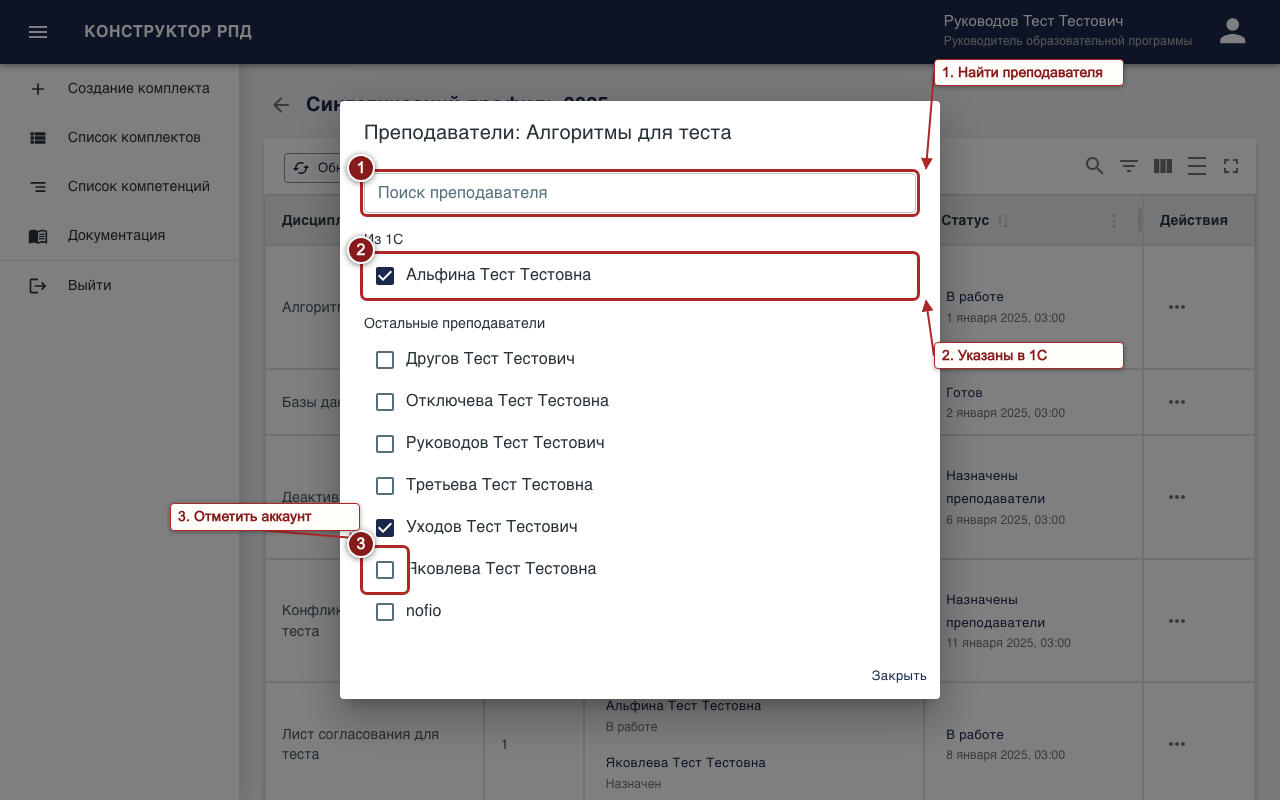
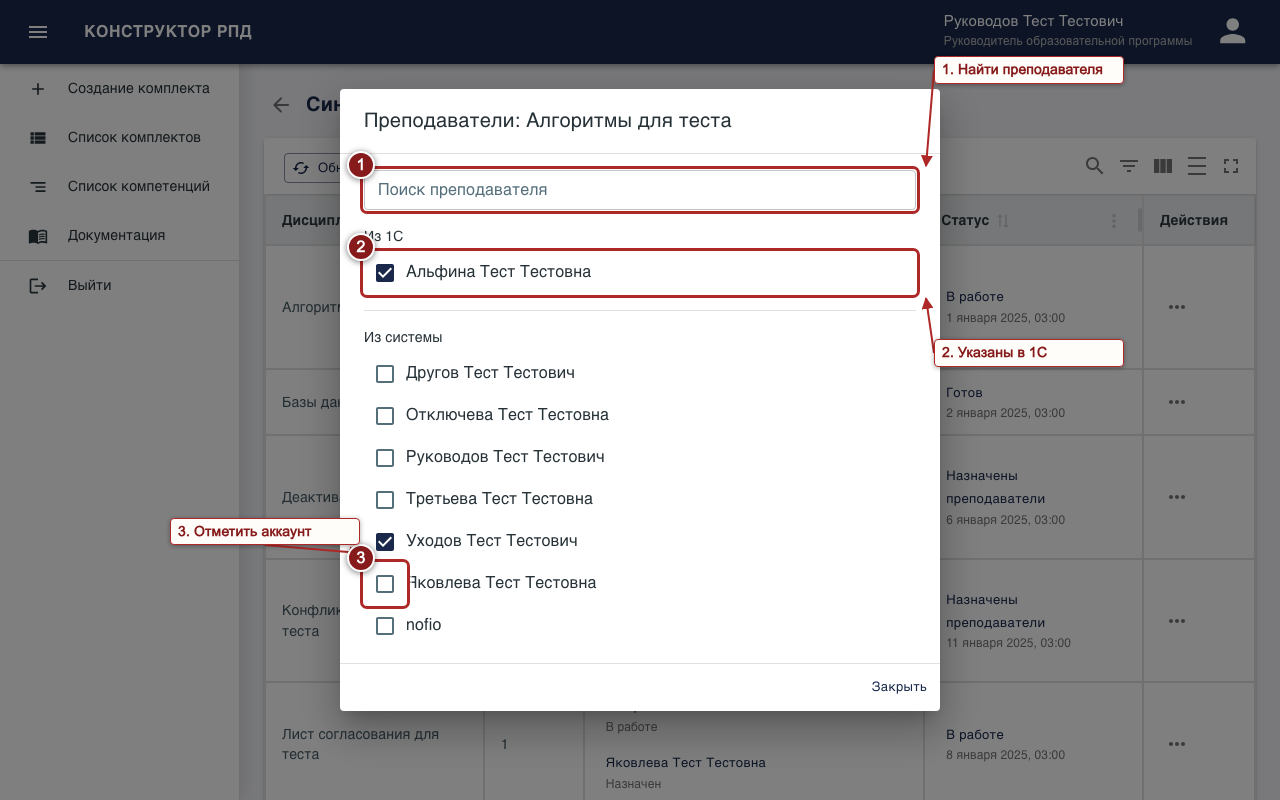
Управление пользователями как таблица комплекта; метка поля по центру при подсказке
Проблема
На странице «Управление пользователями» колонка действий стояла первой, заголовок «Действия» не помещался, кнопка «…» отличалась по виду и цвету от таблицы комплекта, кнопки верхней панели стояли с неровными отступами. В диалоге редактирования метка «Новый пароль» съезжала вниз, на нижнюю границу поля.

Причина
Колонку действий рисовал MRT (enableRowActions) со своей кнопкой и позицией. Тема центрировала метку outlined-поля через top: 50% от всего FormControl; с helperText («Оставьте пустым, чтобы не менять») контейнер выше поля, и метка опускалась.

Что сделано
- Колонка «Действия» — обычная последняя колонка с useActionsColumn (112 px, без меню колонки и изменения ширины), кнопка «…» и меню с иконками (UserRowMenu: «Редактировать», «Активировать») как в таблице комплекта; aria-label «Действия строки» сохранён.
- Кнопки верхней панели — с отступами как у панели комплекта.
- Тема: FormControl с outlined-меткой — inline-grid, метка привязана к строке самого поля (gridArea), поэтому top: 50% считается от поля, а не от поля с подсказкой. Размеры полей не изменились; shrink-состояние прежнее.
- UserFormDialog: убран лишний отступ сверху.
- Документация: уточнение про меню в колонке «Действия»; пересняты users-list.png, teacher-selection.png, funds-dialog.png, books-search.png.

Как проверить
- rpd-client-ts: bun run lint && bun run typecheck && bun run build && bun run test.
[…]

Changed region(s): [[0.125, 0.0625, 0.875, 0.7812], [0.25, 0.8438, 0.75, 0.9062], [0.7188, 0.4062, 0.875, 0.4688]]

diff --git a/rpd-client-ts/src/pages/user-management/ui/UserManagementPage.tsx b/rpd-client-ts/src/pages/user-management/ui/UserManagementPage.tsx
@@ -1,4 +1,4 @@
-import { Alert, Box, Button, MenuItem } from "@mui/material";
+import { Alert, Box, Button } from "@mui/material";
 import { getRoleLabel } from "@entities/auth";
 import { useSetUsersActive, useUsers, type User } from "@entities/user";
 import {
@@ -6,6 +6,7 @@ import {
   showErrorMessage,
   showSuccessMessage,
 } from "@shared/lib";
+import { useActionsColumn } from "@shared/hooks";
 import { ConfirmActionDialog, Loader, PageTitle } from "@shared/ui";
 import {
   MaterialReactTable,
@@ -13,12 +14,15 @@ import {
   useMaterialReactTable,
 } from "material-react-table";
 import { MRT_Localization_RU } from "material-react-table/locales/ru";
-import { useMemo, useState } from "react";
+import { useCallback, useMemo, useState } from "react";
 import { UserFormDialog } from "./UserFormDialog";
+import { UserRowMenu } from "./UserRowMenu";
 
 export function UserManagementPage() {
   const { data: users = [], isPending, isError } = useUsers();
-  const setUsersActive = useSetUsersActive();
+  const { mutateAsync: setActive, isPending: isSetActivePending } =
+    useSetUsersActive();
+  const actionsColumn = useActionsColumn<User>();
   const [rowSelection, setRowSelection] = useState<Record<string, boolean>>({});
   const [formOpen, setFormOpen] = useState(false);
   const [editingUser, setEditingUser] = useState<User | null>(null);
@@ -30,6 +34,35 @@ export function UserManagementPage() {
         .filter(([, selected]) => selected)
         .map(([id]) => Number(id)),
     [rowSelection]
+  );
+
+  const openForm = useCallback((user: User | null) => {
+    setEditingUser(user);
+    setFormOpen(true);
+  }, []);
+
+  const deactivateUsers = async () => {
+    if (selectedIds.length === 0) return;
+    try {
+      await setActive({ ids: selectedIds, isActive: false });
+      showSuccessMessage("Пользователи деактивированы");
+      setRowSelection({});
+      setConfirmOpen(false);
+    } catch {
+      showErrorMessage("Не удалось деактивировать пользователей");
+    }
+  };
+
+  const activateUser = useCallback(
+    async (id: number) => {
+      try {
+        await setActive({ ids: [id], isActive: true });
+        showSuccessMessage("Пользователь активирован");
+      } catch {
+        showErrorMessage("Не удалось активировать пользователя");
+      }
+    },
+    [setActive]
   );
 
   const columns = useMemo<MRT_ColumnDef<User>[]>(
@@ -50,37 +83,27 @@ export function UserManagementPage() {
         header: "Статус",
         accessorFn: (row) => (row.is_active ? "Активен" : "Деактивирован"),
       },
+      {
+        id: "actions",
+        header: "Действия",
+        ...actionsColumn,
+        Cell: ({ row }) => (
+          <UserRowMenu
+            isActive={row.original.is_active}
+            onEdit={() => openForm(row.original)}
+            onActivate={() => void activateUser(row.original.id)}
+          />
+        ),
+      },
     ],
-    []
+    [actionsColumn, openForm, activateUser]
   );
-
-  const deactivateUsers = async () => {
-    if (selectedIds.length === 0) return;
-    try {
-      await setUsersActive.mutateAsync({ ids: selectedIds, isActive: false });
-      showSuccessMessage("Пользователи деактивированы");
-      setRowSelection({});
-      setConfirmOpen(false);
-    } catch {
-      showErrorMessage("Не удалось деактивировать пользователей");
-    }
-  };
-
-  const activateUser = async (id: number) => {
-    try {
-      await setUsersActive.mutateAsync({ ids: [id], isActive: true });
-      showSuccessMessage("Пользователь активирован");
-    } catch {
-      showErrorMessage("Не удалось активировать пользователя");
-    }
-  };
 
   const table = useMaterialReactTable<User>({
     columns,
     data: users,
     localization: MRT_Localization_RU,
     enableRowSelection: (row) => row.original.is_active,
-    enableRowActions: true,
     onRowSelectionChange: setRowSelection,
     layoutMode: "grid",
     state: { rowSelection },
@@ -89,51 +112,20 @@ export function UserManagementPage() {
     muiTableBodyCellProps: { sx: { py: 0.5 } },
     positionToolbarAlertBanner: "none",
     renderTopToolbarCustomActions: () => (
-      <Box sx={{ display: "flex", gap: 2, pl: 2, alignItems: "center" }}>
-        <Button
-          variant="contained"
-          onClick={() => {
-            setEditingUser(null);
-            setFormOpen(true);
-          }}
-        >
+      <Box sx={{ display: "flex", px: 1.5, pt: 0.5, gap: 1.5 }}>
+        <Button variant="contained" onClick={() => openForm(null)}>
           Добавить пользователя
         </Button>
         <Button
           color="error"
           variant="outlined"
-          disabled={selectedIds.length === 0 || setUsersActive.isPending}
+          disabled={selectedIds.length === 0 || isSetActivePending}
           onClick={() => setConfirmOpen(true)}
         >
           Деактивировать ({selectedIds.length})
         </Button>
       </Box>
     ),
-    renderRowActionMenuItems: ({ row, closeMenu }) => [
-      <MenuItem
-        key="edit"
-        onClick={() => {
-          closeMenu();
-          setEditingUser(row.original);
-          setFormOpen(true);
-        }}
-      >
-        Редактировать
-      </MenuItem>,
-      ...(!row.original.is_active
-        ? [
-            <MenuItem
-              key="activate"
-              onClick={() => {
-                closeMenu();
-                void activateUser(row.original.id);
-              }}
-            >
-              Активировать
-            </MenuItem>,
-          ]
-        : []),
-    ],
   });
 
   if (isPending) return <Loader />;

diff --git a/e2e/tests/users/users-table.spec.ts b/e2e/tests/users/users-table.spec.ts
@@ -39,3 +39,31 @@ test('пользователь без ФИО отображается', async ({
   await openUsers(page);
   await expect(page.getByRole('row').filter({ hasText: 'nofio' })).toBeVisible();
 });
+
+test('колонка «Действия» последняя, заголовок не обрезан', async ({ page }) => {
+  await openUsers(page);
+  await expect(page.getByRole('columnheader')).toHaveText([/^$/, /^Логин/, /^ФИО/, /^Роль/, /^Статус/, /^Действия/]);
+  const header = page.getByRole('columnheader', { name: /^Действия/ });
+  await expect(header.getByRole('button')).toHaveCount(0);
+  const label = await header.getByText('Действия', { exact: true }).evaluate((element) => ({
+    scrollWidth: element.scrollWidth, clientWidth: element.clientWidth,
+  }));
+  expect(label.scrollWidth).toBeLessThanOrEqual(label.clientWidth);
+  const row = page.getByRole('row').filter({ hasText: 'teacher2' });
+  await expect(row.getByRole('cell').last().getByRole('button', { name: 'Действия строки' })).toBeVisible();
+});
+
+// Метка пустого поля лежит внутри поля ввода и не съезжает вниз из-за подсказки под ним.
+test('метка «Новый пароль» внутри поля ввода при подсказке под полем', async ({ page }) => {
+  await openUsers(page);
+  await page.getByRole('row').filter({ hasText: 'teacher2' }).getByRole('button', { name: 'Действия строки' }).click();
+  await page.getByRole('menuitem', { name: 'Редактировать' }).click();
+  const dialog = page.getByRole('dialog');
+  const input = dialog.getByLabel('Новый пароль');
+  await expect(dialog.getByText('Оставьте пустым, чтобы не менять')).toBeVisible();
+  const label = (await dialog.locator('label', { hasText: 'Новый пароль' }).boundingBox())!;
+  const field = (await input.boundingBox())!;
+  expect(label.y).toBeGreaterThanOrEqual(field.y);
+  expect(label.y + label.height).toBeLessThanOrEqual(field.y + field.height);
+  expect(Math.abs(label.y + label.height / 2 - (field.y + field.height / 2))).toBeLessThanOrEqual(2);
+});

diff --git a/rpd-client-ts/public/docs/index.html b/rpd-client-ts/public/docs/index.html
@@ -127,7 +127,7 @@
     <section class="chapter" aria-labelledby="admin-heading">
       <h2 id="admin-heading">Администратор</h2>
       <section class="sub-chapter" id="users"><h3>Пользователи</h3>
-        <p>Откройте <strong>«Пользователи»</strong> в боковой панели. Кнопка <strong>«Добавить пользователя»</strong> создаёт учётную запись. Чтобы изменить существующую, откройте меню действий строки и выберите <strong>«Редактировать»</strong>. Чтобы закрыть доступ, отметьте активные учётные записи, нажмите <strong>«Деактивировать»</strong> и подтвердите действие. В меню неактивного пользователя доступна команда <strong>«Активировать»</strong>.</p>
+        <p>Откройте <strong>«Пользователи»</strong> в боковой панели. Кнопка <strong>«Добавить пользователя»</strong> создаёт учётную запись. Чтобы изменить существующую, откройте меню «…» в последней колонке <strong>«Действия»</strong> и выберите <strong>«Редактировать»</strong>. Чтобы закрыть доступ, отметьте активные учётные записи, нажмите <strong>«Деактивировать»</strong> и подтвердите действие. В меню неактивного пользователя доступна команда <strong>«Активировать»</strong>.</p>
         <figure class="figure"><img src="media/users-list.png" alt="Таблица управления пользователями с добавлением и деактивацией" width="1280" height="800" loading="lazy" />
           <figcaption>Пользователи: 1 — добавьте пользователя; 2 — выберите запись для управления.</figcaption></figure>
       </section>

diff --git a/rpd-client-ts/src/pages/user-management/ui/UserRowMenu.tsx b/rpd-client-ts/src/pages/user-management/ui/UserRowMenu.tsx
@@ -1,0 +1,63 @@
+import CheckCircleOutlineOutlinedIcon from "@mui/icons-material/CheckCircleOutlineOutlined";
+import EditOutlinedIcon from "@mui/icons-material/EditOutlined";
+import MoreHorizIcon from "@mui/icons-material/MoreHoriz";
+import { IconButton, ListItemIcon, Menu, MenuItem } from "@mui/material";
+import { useId, useState, type MouseEvent } from "react";
+
+interface Props {
+  isActive: boolean;
+  onEdit: () => void;
+  onActivate: () => void;
+}
+
+export function UserRowMenu({ isActive, onEdit, onActivate }: Props) {
+  const [anchorEl, setAnchorEl] = useState<HTMLButtonElement | null>(null);
+  const menuId = useId();
+  const close = () => setAnchorEl(null);
+  return (
+    <>
+      <IconButton
+        aria-label="Действия строки"
+        aria-haspopup="menu"
+        aria-controls={anchorEl ? menuId : undefined}
+        aria-expanded={Boolean(anchorEl)}
+        onClick={(event: MouseEvent<HTMLButtonElement>) =>
+          setAnchorEl(event.currentTarget)
+        }
+      >
+        <MoreHorizIcon />
+      </IconButton>
+      <Menu
+        id={menuId}
+        anchorEl={anchorEl}
+        open={Boolean(anchorEl)}
+        onClose={close}
+      >
+        <MenuItem
+          onClick={() => {
+            close();
+            onEdit();
+          }}
+        >
+          <ListItemIcon>
+            <EditOutlinedIcon />
+          </ListItemIcon>
+          Редактировать
+        </MenuItem>
+        {!isActive ? (
+          <MenuItem
+            onClick={() => {
+              close();
+              onActivate();
+            }}
+          >
+            <ListItemIcon>
+              <CheckCircleOutlineOutlinedIcon />
+            </ListItemIcon>
+            Активировать
+          </MenuItem>
+        ) : null}
+      </Menu>
+    </>
+  );
+}

diff --git a/rpd-client-ts/src/shared/config/theme.ts b/rpd-client-ts/src/shared/config/theme.ts
@@ -86,10 +86,23 @@ export const themeOptions: ThemeOptions = {
         }),
       },
     },
+    MuiFormControl: {
+      styleOverrides: {
+        // Метка — в ячейке сетки поля ввода, а не во всём FormControl: иначе helperText
+        // увеличивает высоту контейнера и «top: 50%» уводит метку вниз.
+        root: {
+          "&:has(> .MuiInputLabel-outlined)": {
+            display: "inline-grid",
+            alignContent: "start",
+          },
+        },
+      },
+    },
     MuiInputLabel: {
       styleOverrides: {
         root: {
           "&.MuiInputLabel-outlined": {
+            gridArea: "1 / 1 / 2 / 2",
             top: "50%",
             transform: "translate(14px, -50%)",
           },

diff --git a/rpd-client-ts/src/pages/user-management/ui/UserFormDialog.tsx b/rpd-client-ts/src/pages/user-management/ui/UserFormDialog.tsx
@@ -92,7 +92,7 @@ export function UserFormDialog({ open, user, onClose }: UserFormDialogProps) {
           {isEditing ? "Редактирование пользователя" : "Новый пользователь"}
         </DialogTitle>
         <DialogContent>
-          <Box sx={{ display: "flex", flexDirection: "column", gap: 2, mt: 1 }}>
+          <Box sx={{ display: "flex", flexDirection: "column", gap: 2 }}>
             <TextField
               label="Логин"
               autoComplete="off"
